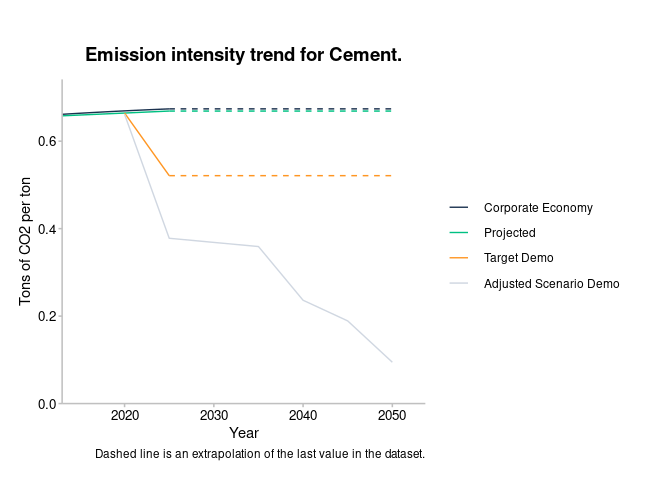
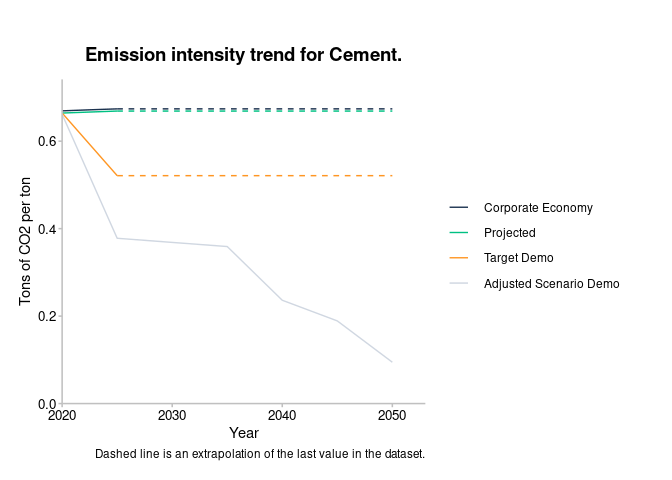
prep_timelineY() again starts at common start year (#227)

diff --git a/README.md b/README.md
@@ -40,10 +40,8 @@ library(ggplot2, warn.conflicts = FALSE)
 library(r2dii.plot)
 ```
 
-  - `market_share` dataset imitating the output of
+-   `market_share` dataset imitating the output of
     ‘r2dii.analysis::target\_market\_share()’.
-
-<!-- end list -->
 
 ``` r
 market_share
@@ -63,9 +61,7 @@ market_share
 #> # … with 1,160 more rows, and 1 more variable: technology_share <dbl>
 ```
 
-  - `prep_trajectoryY()`: .
-
-<!-- end list -->
+-   `prep_trajectoryY()`: .
 
 ``` r
 data_trajectory <- prep_trajectoryY(
@@ -79,9 +75,7 @@ data_trajectory <- prep_trajectoryY(
 )
 ```
 
-  - `plot_trajectoryY()` is an alternative to `plot_trajectoryB()`.
-
-<!-- end list -->
+-   `plot_trajectoryY()` is an alternative to `plot_trajectoryB()`.
 
 ``` r
 # `plot_trajectoryY()` takes more arguments
@@ -112,7 +106,6 @@ plot_trajectoryY(
 <img src="man/figures/README-unnamed-chunk-5-1.png" width="100%" style="display: block; margin: auto auto auto 0;" />
 
 ``` r
-
 # more elaborate annotations, title and labels
 
 data_trajectory <- prep_trajectoryY(
@@ -154,10 +147,8 @@ plot +
 
 <img src="man/figures/README-unnamed-chunk-5-2.png" width="100%" style="display: block; margin: auto auto auto 0;" />
 
-  - `prep_techmixY()` .
-  - `plot_techmixY()` .
-
-<!-- end list -->
+-   `prep_techmixY()` .
+-   `plot_techmixY()` .
 
 ``` r
 # Default colours, all data, added title
@@ -181,7 +172,6 @@ plot +
 <img src="man/figures/README-unnamed-chunk-6-1.png" width="100%" style="display: block; margin: auto auto auto 0;" />
 
 ``` r
-
 # Custom colours, all data, no title
 power_colors_custom <- tibble(
   technology = c("coalcap", "oilcap", "gascap", "nuclearcap", "hydrocap", "renewablescap"),
@@ -198,7 +188,6 @@ plot
 <img src="man/figures/README-unnamed-chunk-6-2.png" width="100%" style="display: block; margin: auto auto auto 0;" />
 
 ``` r
-
 # Default colours, selected data and labels (metric_type parameters), added title
 
 sector <- "automotive"
@@ -229,10 +218,8 @@ plot +
 
 <img src="man/figures/README-unnamed-chunk-6-3.png" width="100%" style="display: block; margin: auto auto auto 0;" />
 
-  - `prep_timelineY()` .
-  - `plot_timelineY()` .
-
-<!-- end list -->
+-   `prep_timelineY()` .
+-   `plot_timelineY()` .
 
 ``` r
 data <- prep_timelineY(sda, sector_filter = "cement", extrapolate = TRUE)
@@ -249,10 +236,8 @@ plot_timelineY(data) +
 
 <img src="man/figures/README-unnamed-chunk-7-1.png" width="100%" style="display: block; margin: auto auto auto 0;" />
 
-  - `timeline_specs()` creates the default specs data frame for
+-   `timeline_specs()` creates the default specs data frame for
     ‘plot\_timeliney()’.
-
-<!-- end list -->
 
 ``` r
 # You may use it as a template to create your custom specs
